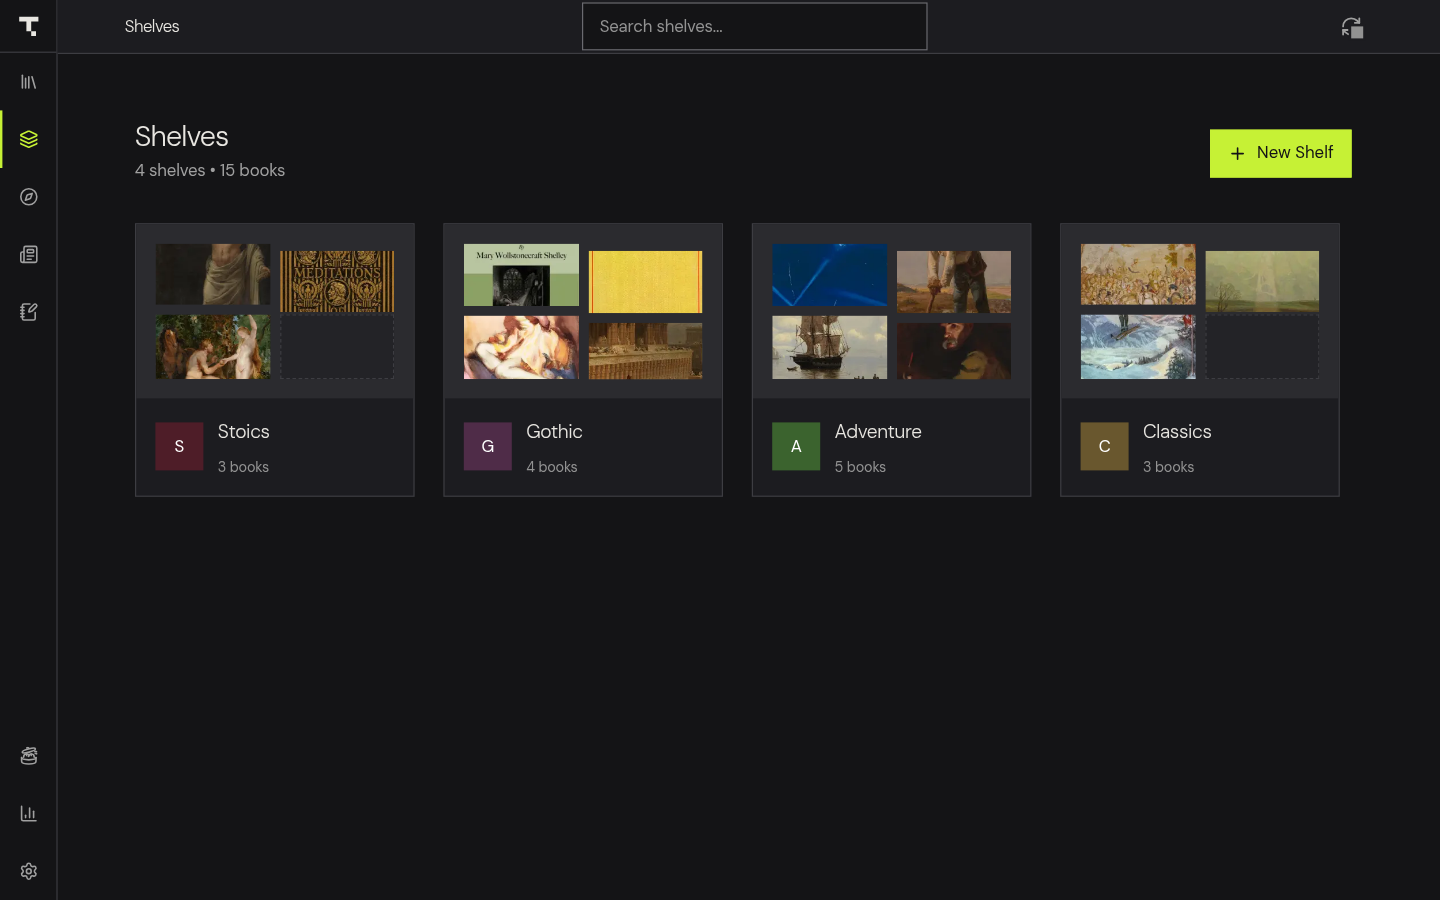
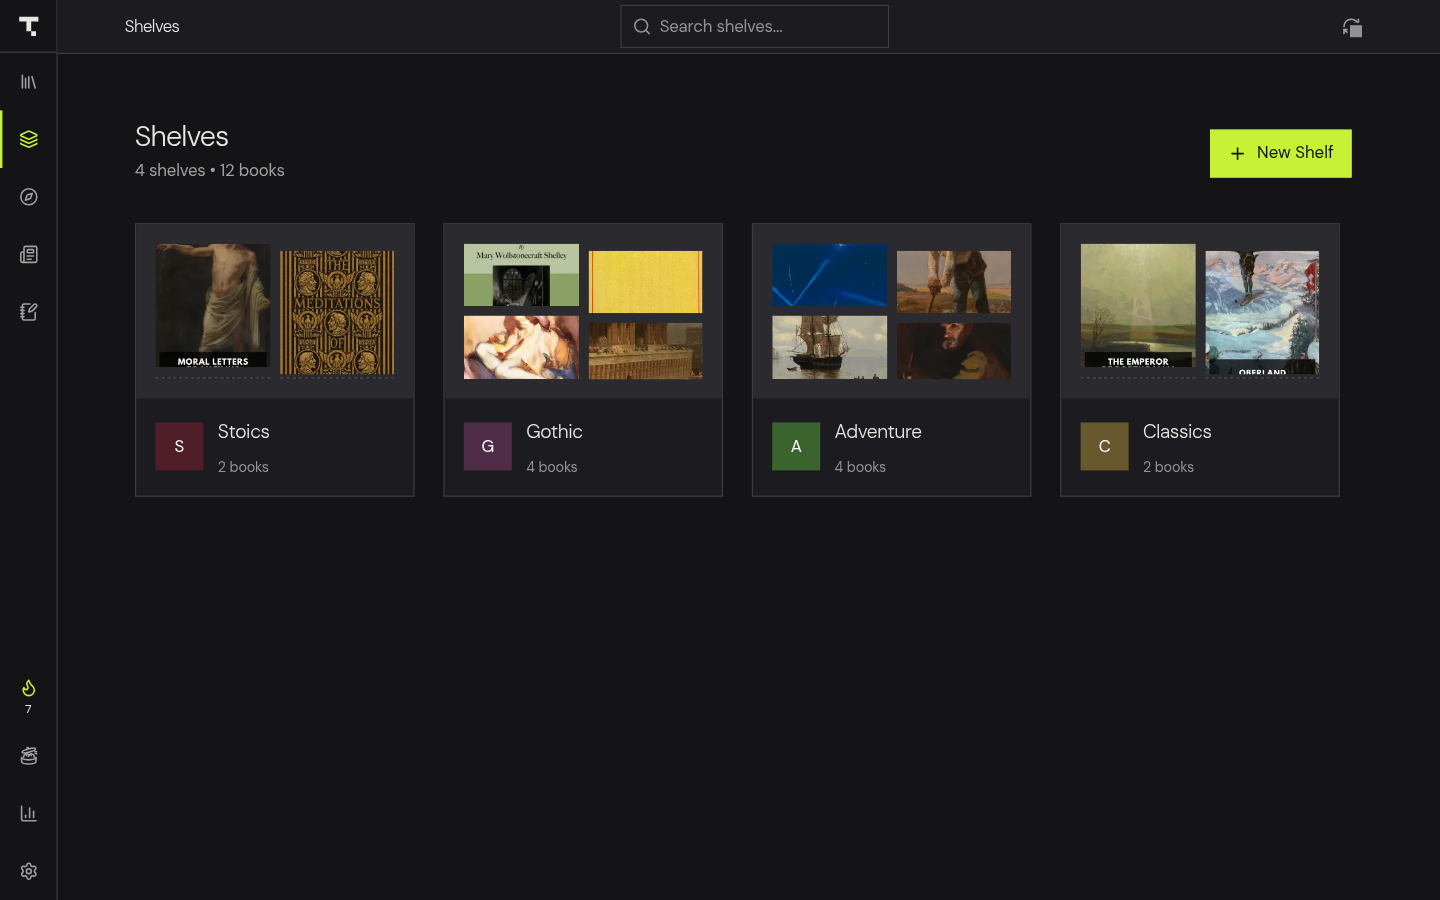
docs: refresh desktop and phone screenshots for 1.6.1
Capture current controls with public-domain books, cultural feeds and real dictionary definitions. Include a placement guide, contact sheets and source provenance.

diff --git a/Screenshots/README.md b/Screenshots/README.md
@@ -1,0 +1,38 @@
+# Theorem 1.6.1 screenshots
+
+Captured from commit `b8d2e257`. These are genuine app captures with staged public-domain books, live feed subscriptions, highlights, vocabulary and sample reading history. Phone images show the responsive browser interface; they are not Android OS screenshots.
+
+![Desktop contact sheet](contact-sheet-desktop.png)
+
+![Phone contact sheet](contact-sheet-phone.png)
+
+## Placement
+
+Desktop assets are 1440 × 900. Phone assets are 1082 × 2402. The landing exports in theorem-landing/public/images use 1920 × 1048 with 960px WebP variants. Use the separate phone files when arranging device frames; the landing also has a four-phone composite.
+
+| Screen | Desktop | Phone |
+|---|---|---|
+| Library grid | [PNG](library-grid.png) | [PNG](mobile-library.png) |
+| Library list | [PNG](library-list.png) | [PNG](mobile-library-list.png) |
+| Shelves | [PNG](shelves-overview.png) | [PNG](mobile-shelves-overview.png) |
+| Discover | [PNG](discover.png) | [PNG](mobile-discover.png) |
+| Feeds: The Public Domain Review | [PNG](feeds-reader.png) | [PNG](mobile-feeds-reader.png) |
+| Workbench highlights | [PNG](workbench-highlights.png) | [PNG](mobile-workbench.png) |
+| Workbench attached notes | [PNG](workbench-notes.png) | [PNG](mobile-workbench-notes.png) |
+| Saved vocabulary | [PNG](workbench-words.png) | [PNG](mobile-workbench-words.png) |
+| Saved bookmarks | [PNG](workbench-bookmarks.png) | [PNG](mobile-workbench-bookmarks.png) |
+| EPUB reader: dark | [PNG](reader-dark-highlights.png) | [PNG](mobile-reader.png) |
+| EPUB reader: light | [PNG](reader-light-highlights.png) | [PNG](mobile-reader-light-highlights.png) |
+| Dictionary lookup in the reader | [PNG](dictionary-lookup.png) | [PNG](mobile-dictionary-lookup.png) |
+| Reading statistics and levels | [PNG](statistics.png) | [PNG](mobile-statistics.png) |
+| General settings: navigation and reading goals | [PNG](settings-navigation.png) | [PNG](mobile-settings-navigation.png) |
+| Library with Discover and Feeds hidden | [PNG](minimal-navigation.png) | [PNG](mobile-minimal-navigation.png) |
+| Reading setup: welcome | [PNG](onboarding-welcome.png) | [PNG](mobile-onboarding-welcome.png) |
+| Reading setup: rhythm | [PNG](onboarding-rhythm.png) | [PNG](mobile-onboarding-rhythm.png) |
+| Reading setup: first book | [PNG](onboarding-library.png) | [PNG](mobile-onboarding-library.png) |
+
+## Capture and sources
+
+The private fundaments-agent-harness repo owns screenshots/theorem/capture.sh and publish.sh. Captures and downloaded books stay in the harness state directory; only reviewed images and this placement guide belong in product repos. manifest.json records the source commit, viewport sizes, book editions and feed URLs. Reading history is sample data, evaluated by the same Rust/WASM rules as the app.
+
+Books: [Standard Ebooks](https://standardebooks.org/) and [Project Gutenberg](https://www.gutenberg.org/). Feeds: [The Public Domain Review](https://publicdomainreview.org/), [Open Culture](https://www.openculture.com/) and [Standard Ebooks](https://standardebooks.org/). Dictionary lookup uses a cached real [Free Dictionary API](https://api.dictionaryapi.dev/api/v2/entries/en/time) response from [Wiktionary](https://en.wiktionary.org/wiki/time), licensed [CC BY-SA 3.0](https://creativecommons.org/licenses/by-sa/3.0/); no installed dictionary is simulated. The reader shows Seneca’s *Moral Letters to Lucilius*, Letter I, “On Saving Time”.

diff --git a/docs/user/workbench.md b/docs/user/workbench.md
@@ -2,20 +2,29 @@
 
 Review every highlight, note, saved word and bookmark across your whole library, search them, edit notes, and jump back to the place in the book.
 
-![The Workbench page listing color-coded highlights and a note from a book, with All, Highlights, Notes, Words and Bookmarks tabs](../screenshots/workbench.png)
+![The Workbench page listing color-coded highlights and a note from a book, with Highlights, Notes, Words and Bookmarks tabs](../screenshots/workbench.png)
 
 ## Open the Workbench
 
-Click Workbench in the sidebar (the fifth icon), or press `Ctrl+5`. On Android, tap Workbench in the bottom bar. The page header counts your annotations and saved words, for example "4 annotations • 3 terms".
+Click Workbench in the sidebar (the fifth icon), or press `Ctrl+5`. On Android, tap Workbench in the bottom bar. The page header counts the highlights, notes or words shown in the current tab.
 
 ## Filter, sort and search
 
-1. Use the tabs to choose what to see: All, Highlights, Notes, Words or Bookmarks. Words are the terms you saved from the dictionary. Bookmarks shows your bookmarks, described below.
-2. Click Cards to switch from the list to a card view, and click List to switch back. The button is hidden on the Words tab.
+1. Use the tabs to choose what to see: Highlights, Notes, Words or Bookmarks. Words are the terms you saved from the dictionary. Bookmarks shows your bookmarks, described below.
+2. Use the Cards view button to switch from the list to cards, and List view to switch back.
 3. Use the sort menu to choose Newest First, Oldest First or By Book.
 4. Type in the search box at the top to search highlights, notes and books.
 
 Each entry shows its type, date, the book and author, and the highlighted text. Highlights keep the color you chose, shown as a colored edge. Long quotes and notes are shortened, and a Show more link expands them.
+
+## Notes attached to highlights
+
+Notes includes both notes created in the reader and notes attached to highlights.
+Adding or editing a highlight’s note in Workbench makes it visible here too.
+The highlight remains in Highlights. Clearing the attached text removes it from
+Notes while keeping the highlight.
+
+![The Notes tab showing a note attached to a highlighted passage from Seneca](../screenshots/notes.png)
 
 ## Work with an entry
 
@@ -38,7 +47,7 @@ To save words in the first place, see [Dictionary and vocabulary](dictionary.md)
 
 ## Bookmarks
 
-Bookmarks are the last tab in the Workbench, so you can reach them on every screen, phones included. You can also press `Ctrl+7` to jump straight to it. On a narrow screen each tab shows its icon over a small label, so all five always fit.
+Bookmarks are the last tab in the Workbench, so you can reach them on every screen, phones included. You can also press `Ctrl+7` to jump straight to it. On a narrow screen each tab shows its icon over a small label, so the sections remain easy to identify.
 
 1. Use the first menu next to the tabs to show bookmarks from All sources or from one book or article. Each book is listed with its bookmark count.
 2. Use the second menu to sort by Newest First, Oldest First or By Book.

diff --git a/docs/releases/1.6.1.md b/docs/releases/1.6.1.md
@@ -1,0 +1,51 @@
+# 1.6.1 prerelease preparation
+
+Planned release date: 2026-11-03. Publish `v1.6.1` as a **prerelease**, following
+Theorem's rule that only `X.Y.0` releases are stable. The five version files
+already agree on `1.6.1`.
+
+## Release-note summary
+
+- Reading-first setup, flexible weekly goals, lasting reading XP and levels,
+  and clearer Statistics. Existing reading history is retained and credited.
+- Optional Discover and Feeds navigation on each device (#173), and attached
+  highlight notes correctly included in Workbench Notes (#170).
+- Daily Review dismissal survives restarts; book covers download and validate
+  through the native image pipeline.
+- Improved audiobook controls, metadata and chapter support, plus terminal
+  chapter titles and Unicode-safe labels.
+- Local discovery on laptop hotspots without an internet relay.
+- Refreshed desktop/phone screenshots using public-domain books and cultural
+  feeds, with source credits and a placement guide.
+
+The complete change list remains in [CHANGELOG.md](../../CHANGELOG.md).
+
+## Screenshot placement
+
+Start with [the placement guide](../../Screenshots/README.md),
+[desktop contact sheet](../../Screenshots/contact-sheet-desktop.png) and
+[phone contact sheet](../../Screenshots/contact-sheet-phone.png).
+The source revision and content credits are in
+[the screenshot manifest](../../Screenshots/manifest.json).
+
+The private harness creates a full-resolution D/L/M ZIP in capture state. It
+also updates the landing's existing screenshot names and WebP sizes locally;
+those URLs are versioned by content hash when the landing is built. Phone
+images are responsive browser captures, not Android OS screenshots.
+
+## Publication checklist
+
+Follow [the release runbook](../release.md) at the final release revision:
+
+- Review and commit the product images, landing images and harness changes.
+- Include the intended release commits on `main` before tagging.
+- Run every release gate, including Foliate reproduction, both Android clippy
+  targets and the complete native E2E suite. Use a fixed E2E binary when other
+  Cargo commands could replace the default executable.
+- Regenerate icons from `public/favicon.svg` and review any resulting changes.
+- Date the `1.6.1` changelog entry for the actual publication day.
+- With maintainer approval, create and push `v1.6.1`.
+- Let every platform job finish, then verify the release is public and marked
+  as a prerelease. A failed platform job leaves the release as a draft.
+
+No tag or release is created by the screenshot tooling.

diff --git a/README.md b/README.md
@@ -54,10 +54,10 @@
 </table>
 
 <p align="center">
-  <img src="./Screenshots/mobile-library.png" alt="Theorem on Android: the library grid" width="200">
-  <img src="./Screenshots/mobile-reader.png" alt="Theorem on Android: reading an EPUB with a highlight" width="200">
-  <img src="./Screenshots/mobile-discover.png" alt="Theorem on Android: Discover with the newest restored editions" width="200">
-  <img src="./Screenshots/mobile-workbench.png" alt="Theorem on Android: the Workbench listing highlights" width="200">
+  <img src="./Screenshots/mobile-library.png" alt="Theorem phone layout: the library grid" width="200">
+  <img src="./Screenshots/mobile-reader.png" alt="Theorem phone layout: reading an EPUB with a highlight" width="200">
+  <img src="./Screenshots/mobile-discover.png" alt="Theorem phone layout: Discover with the newest restored editions" width="200">
+  <img src="./Screenshots/mobile-workbench.png" alt="Theorem phone layout: the Workbench listing highlights" width="200">
 </p>
 
 ---
@@ -182,6 +182,12 @@ CBZ and **CBR** open natively everywhere — the RAR container is decoded in pur
 
 ### Reading Statistics
 Reading time tracking (total and per-book). Books finished. Reading streaks: current + longest. Daily activity log with 12-week heatmap. Reading goals: daily minutes and yearly books. Book completion tracking. Achievements. Shareable stats card. OS notifications for goal completion and a scheduled daily reminder.
+
+<p align="center">
+  <img src="./Screenshots/statistics.png" alt="Theorem Statistics with reading levels, XP, reading time, streaks and goals" width="820">
+</p>
+
+[All desktop and phone screenshots, with placement notes](./Screenshots/README.md).
 
 ### Speed Reader
 RSVP rapid-serial-visual-reading overlay with optimal-recognition-point highlighting, play/pause, and auto-advance — for skimming when full narration is too slow.

diff --git a/docs/user/settings-and-shortcuts.md b/docs/user/settings-and-shortcuts.md
@@ -6,7 +6,19 @@ Open Settings from the gear icon at the bottom of the sidebar, from the gear ico
 
 ## General
 
+### Navigation
+
+Show Discover and Show Feeds independently control those destinations in the
+phone bottom bar and desktop sidebar. Both are on by default. Hiding a tab
+keeps its data and leaves the remaining tabs evenly spaced. These choices stay
+on this device; turn either control back on to restore the destination.
+Keyboard shortcut numbers stay the same.
+
+![General settings with the Discover and Feeds navigation controls](../screenshots/settings-navigation.png)
+
 ### Reading Goals
+
+- **Reading days per week.** Choose your weekly rhythm. Five reading minutes qualify a day. Changes start next Monday.
 
 - **Daily Reading Goal.** Minutes per day, 1 to 180. Default 30.
 - **Yearly Book Goal.** Books per year, 1 to 100. Default 24.
@@ -20,7 +32,7 @@ See [Reading statistics and goals](statistics.md).
 
 - **Theme.** System, Light or Dark. The default is Dark.
 - **Accent Color.** Choose one of the swatches, or type a six-digit hex color. The default is a lime green, `c6f135`.
-- **Daily Highlight.** Shows a random past highlight on the Library page. Off by default.
+- **Daily Review.** Shows a deck of past highlights for review from Library. Off by default.
 - **Speed Read.** Adds the Speed Read button to the reader. Off by default. See [Reading books, PDFs and comics](reading.md#speed-read).
 - **Text-to-Speech.** Turns text-to-speech on or off. On by default, and not available in the browser demo. See [Listening with text-to-speech and audiobooks](listening.md).
 - **Vocabulary Lookup.** Lets you save words you look up. On by default. See [Dictionary and vocabulary](dictionary.md).

diff --git a/docs/release.md b/docs/release.md
@@ -77,3 +77,17 @@ from the template. The `pnpm tauri icon public/favicon.svg` command
 regenerates platform PNGs but does NOT regenerate the vector drawables
 in `drawable-v24/`. These XML files are our permanent customization.
 
+
+### Screenshot assets
+
+Before publication, refresh and visually review the screenshots with the private
+`fundaments-agent-harness` workflow in `screenshots/README.md`. Its capture script
+uses isolated demo data; its export script updates this repo and
+`theorem-landing` locally. It does not deploy either repository.
+
+`Screenshots/README.md` is the placement guide and contact-sheet index.
+`Screenshots/manifest.json` records the app revision, viewport sizes, public book
+editions, feed URLs and dictionary attribution. Phone assets are responsive
+browser captures; use native device captures for system bars or native dialogs.
+Keep source captures and the full-resolution ZIP in harness state rather than
+committing duplicate archives or book files.

diff --git a/CHANGELOG.md b/CHANGELOG.md
@@ -9,6 +9,8 @@ and this project adheres to [Semantic Versioning](https://semver.org/spec/v2.0.0
 
 ### Features & Enhancements
 
+- **Updated screenshots and user guides** — Fresh public-domain books and cultural feeds illustrate the current desktop and phone layouts, with a placement guide, reading rhythm, attached notes and optional navigation.
+
 - **Optional Discover and Feeds tabs (#173)** — Settings → General can hide either destination from the phone bottom bar and desktop sidebar on each device. Remaining tabs fill the space; restoring a tab retains its data and keyboard shortcuts keep their existing numbers.
 
 - **Audiobook media controls** — Supported system controls show artwork, playback state and position, and can move between chapters.

diff --git a/docs/user/getting-started.md b/docs/user/getting-started.md
@@ -40,7 +40,7 @@ You can also open a book directly from your file manager. Theorem registers itse
 
 On a phone, a bottom bar gives quick access to five pages: Library, Shelves, Discover, Workbench and Feeds. The top bar has a search button, Sync devices, Statistics and Settings. Bookmarks is a tab inside Workbench, next to All, Highlights, Notes and Words. On a narrow screen only the tab you are on shows its name and the others show an icon. The full sidebar appears on wider screens such as tablets.
 
-![The Theorem library on Android showing a grid of book covers](../screenshots/android-library.png)
+![The Theorem phone layout showing a grid of book covers](../screenshots/android-library.png)
 
 ## Open the main pages from the keyboard
 

diff --git a/docs/user/statistics.md b/docs/user/statistics.md
@@ -2,6 +2,13 @@
 
 See your reading time, streaks and a 12-week heatmap, set daily and yearly reading goals, turn on reminders, and share a statistics card as an image.
 
+![Statistics showing the reading level, XP, reading time, streak and goals](../screenshots/statistics.png)
+
+Your reading rhythm adds a weekly goal and lasting XP. Five reading minutes
+qualify a day. Statistics shows your level and progress; edit reading days per
+week in Settings → General. A changed weekly target starts the following Monday.
+Daily minutes and yearly book goals remain separate.
+
 ## Open the Statistics page
 
 Click the bar chart icon at the bottom of the sidebar, just above Settings, or press `Ctrl+6`. On Android the icon is in the top bar.

diff --git a/docs/user/dictionary.md b/docs/user/dictionary.md
@@ -2,7 +2,7 @@
 
 Look up words while you read, install offline dictionaries, and save the words you want to remember to a vocabulary list that can also be exported.
 
-![A definition pop-up in the reader showing the word celestial, its phonetic spelling, definitions by part of speech, and Back and Save to Vocabulary buttons](../screenshots/dictionary-lookup.png)
+![A definition pop-up in the reader showing the word time, its phonetic spelling, definitions by part of speech, and Back and Save to Vocabulary buttons](../screenshots/dictionary-lookup.png)
 
 ## Look up a word
 

diff --git a/docs/user/feeds.md b/docs/user/feeds.md
@@ -2,7 +2,7 @@
 
 Subscribe to RSS and Atom feeds, read articles in the same reader as your books, save them for offline reading, and choose how long they are kept.
 
-![The Feeds page with three subscriptions on the left and a list of article cards from all of them, each with View Original, Save and favorite buttons](../screenshots/feeds.png)
+![The Feeds page with three subscriptions on the left and article cards from The Public Domain Review, each with View Original, Save and favorite buttons](../screenshots/feeds.png)
 
 ## Open the Feeds page
 
